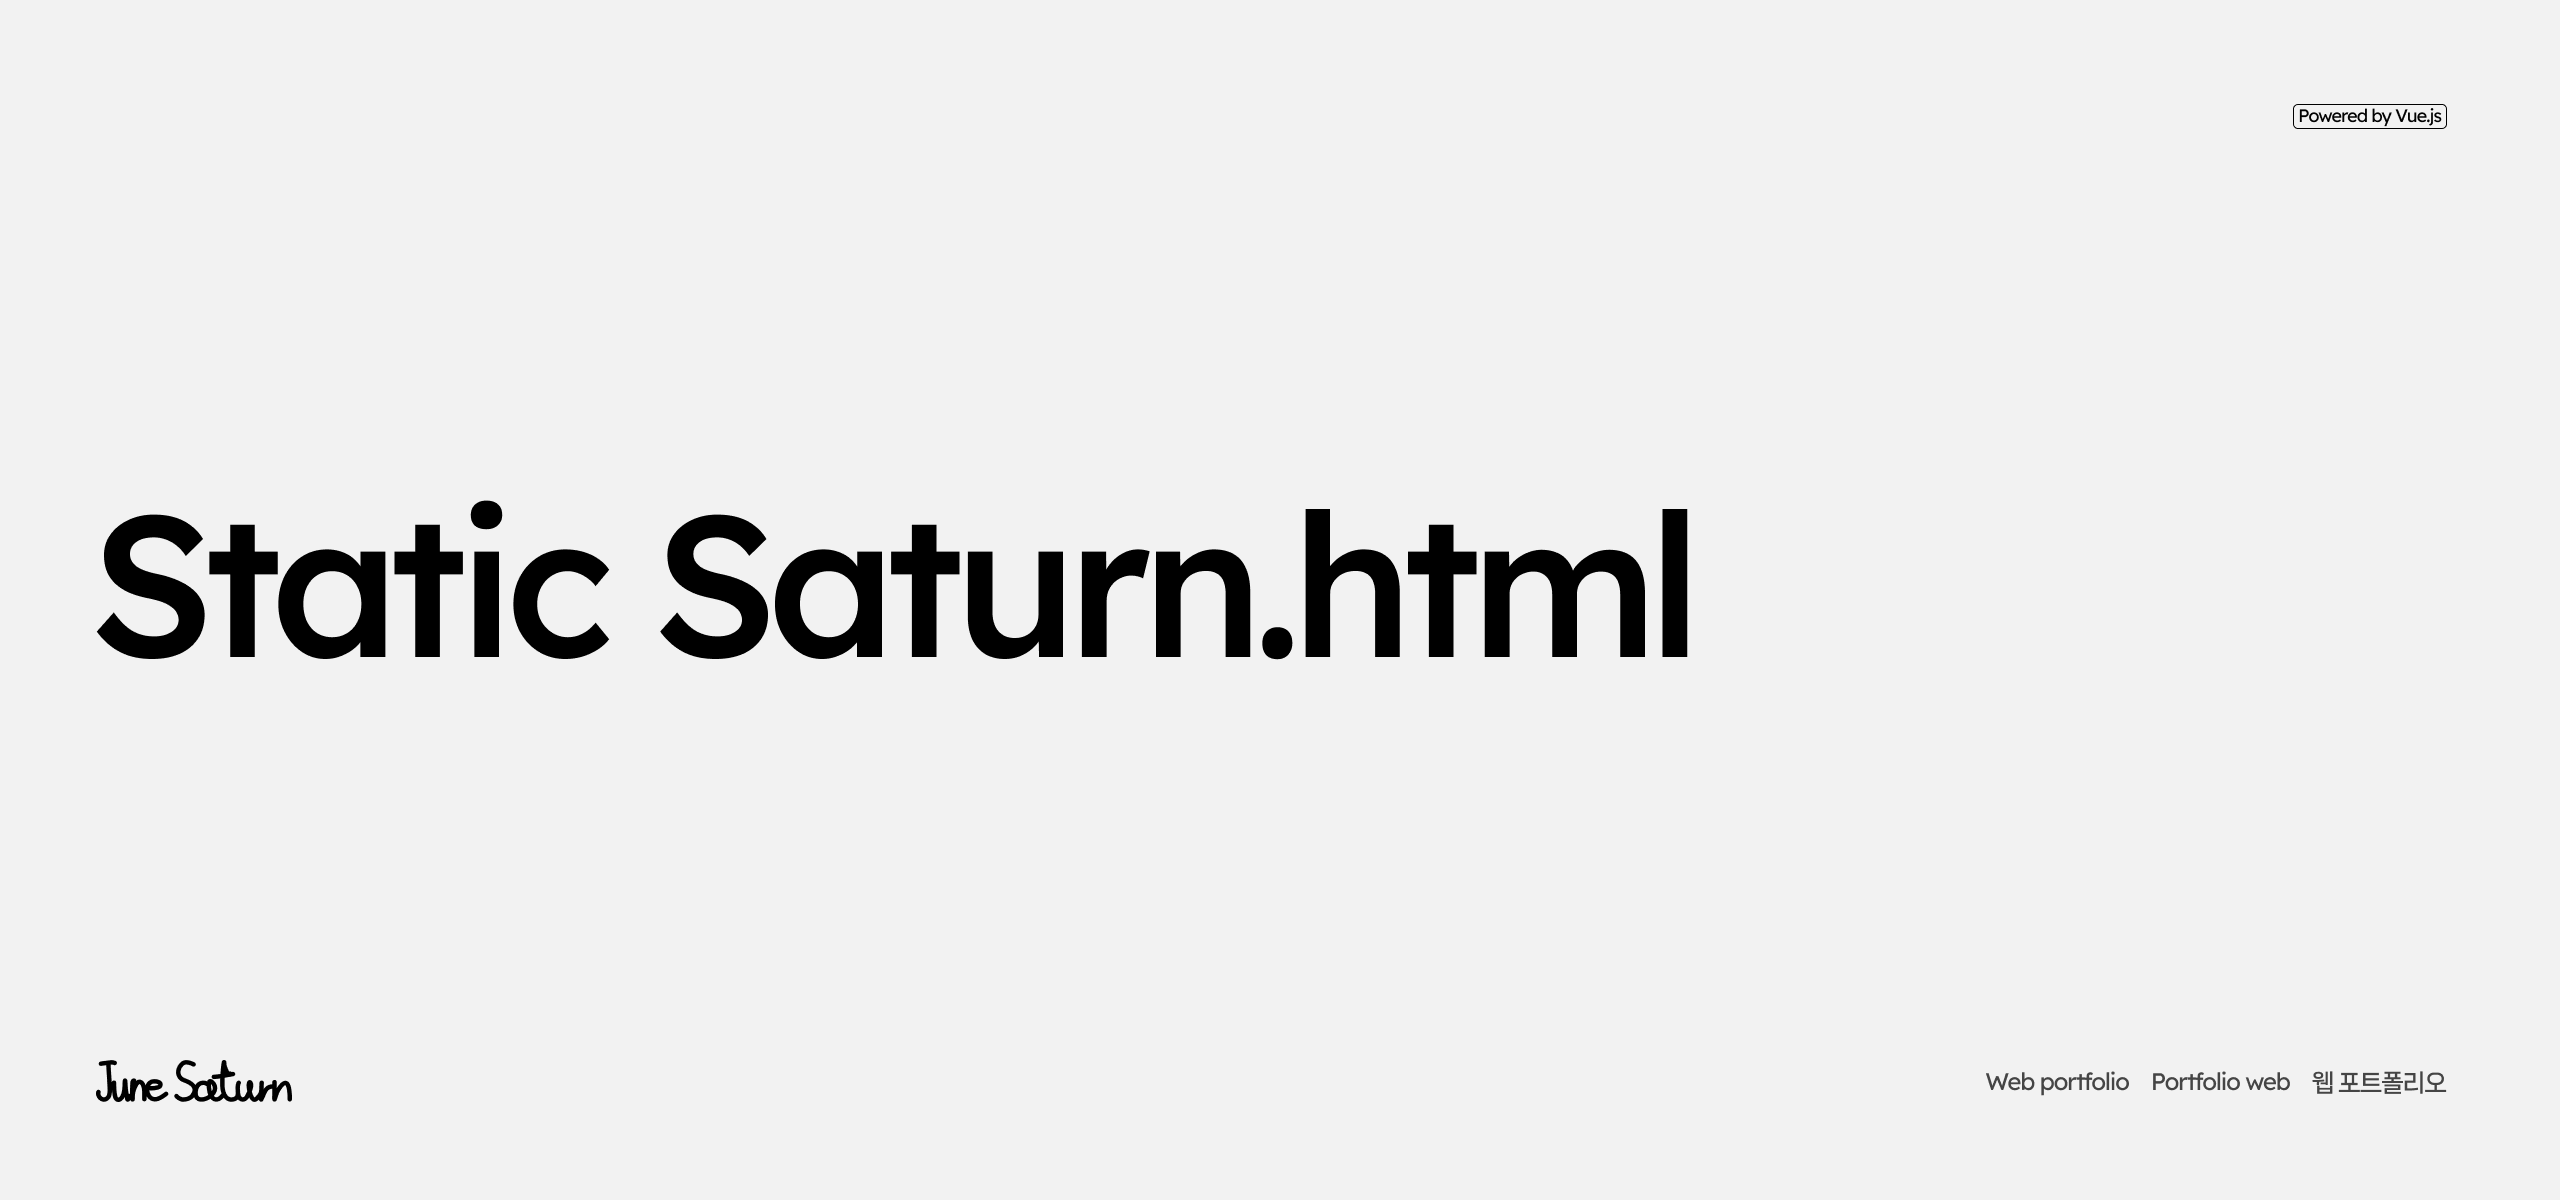
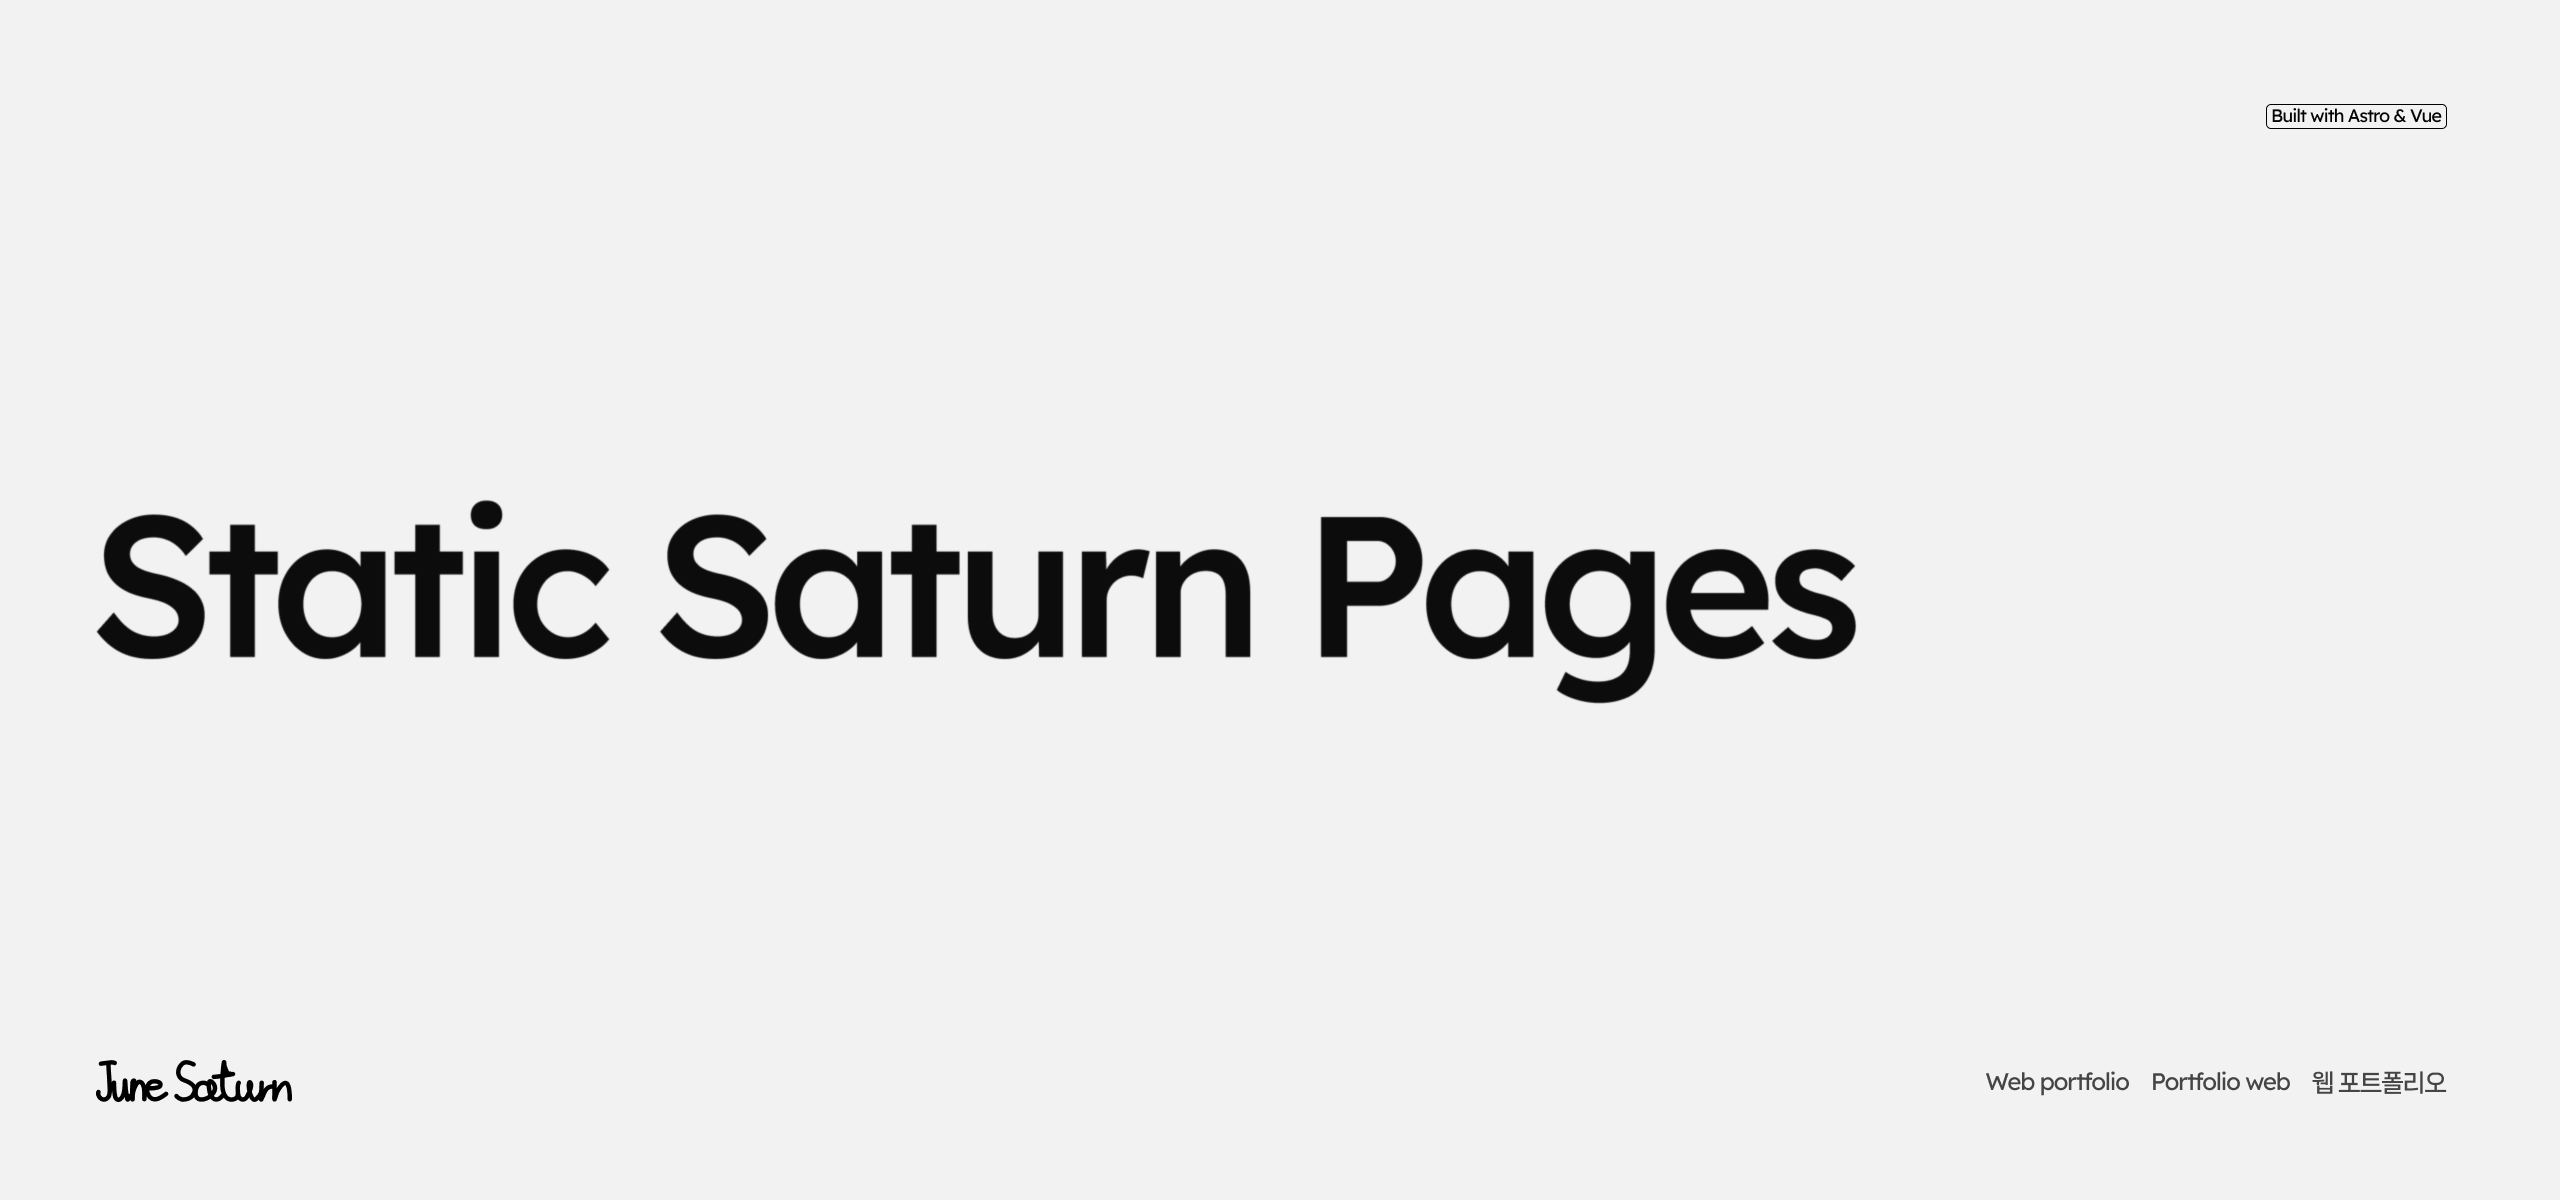
Update README and promo image

Changed region(s): [[0.4688, 0.4317, 0.75, 0.5858], [0.875, 0.0925, 0.9688, 0.1233]]

diff --git a/README.md b/README.md
@@ -1,21 +1,27 @@
 ![Static Saturn Pages](.github/images/static-saturn-promo1.png)
 
-# STATIC SATURN PAGES
-
+# 🪐 STATIC SATURN PAGES
 ##### [junesaturn.me](https://junesaturn.me)
+
+---
 
 ### OVERVIEW
 
-**Static Saturn Pages** is a front-end web project that brings together my projects and a short bio in one place.
+**Static Saturn Pages** is a front-end project: a portfolio website that brings together my work—especially my gameography—and a short bio in one place.
 
 ### FEATURES
 
-##### DESIGN
+##### 📐 DESIGN
 
 - Minimalist aesthetic.
 - Responsive layout.
 
-##### TECH
+##### 💻 TECH
 
 - Hosted on GitHub Pages.
 - Built with Astro and Vue.js using a component-based structure for clean, readable code.
+- Written in TypeScript.
+
+---
+
+Copyright © 2026 June Saturn. All rights reserved. 
